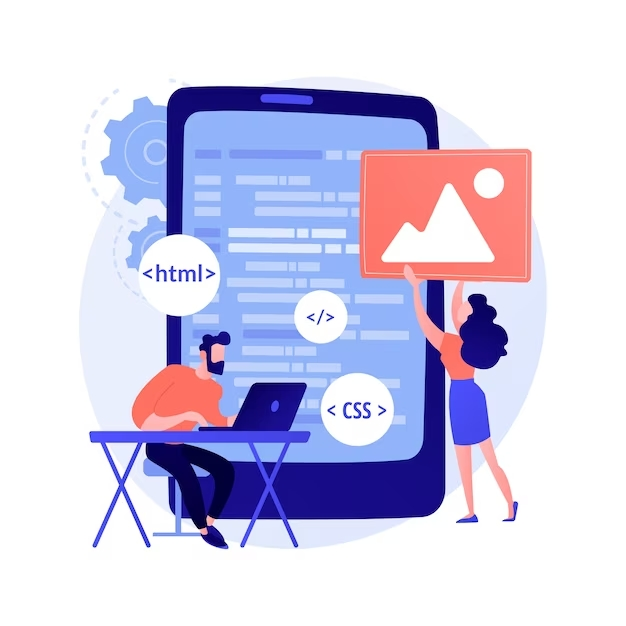
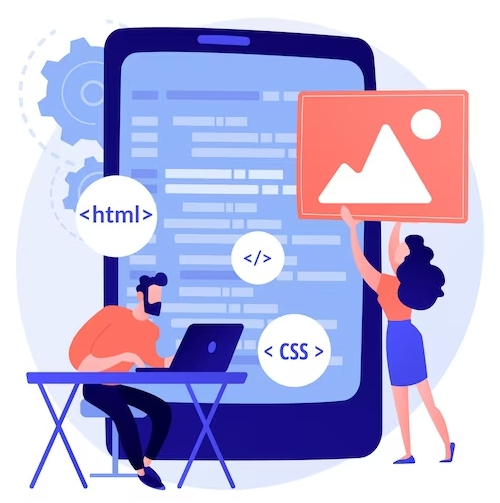
update image min width presentation page

diff --git a/style.css b/style.css
@@ -748,6 +748,7 @@ footer li.active a {
 
 .row_accueil.presentation_comp img {
     width: 20vw;
+    min-width: 200px;
 }
 
 .row_accueil.presentation_comp .grille_ressources {
@@ -758,7 +759,7 @@ footer li.active a {
 }
 
 .row_accueil.presentation_comp .grille_ressources .item_grid {
-    padding: 20px;
+    padding: 30px;
     background-color: var(--color-white);
     box-shadow: 0 0 5px var(--color-black);
     border-radius: 15px;

diff --git a/index.html b/index.html
@@ -10,7 +10,7 @@
     <link rel="canonical" href="https://unkn0wndfbx.github.io/SiteBUT/" />
     <link rel="stylesheet" href="style.css">
     <script src="https://kit.fontawesome.com/7a0b90407e.js" crossorigin="anonymous"></script>
-    <link rel="stylesheet" type="text/css" href="style_dark.css">
+    <link rel="stylesheet" href="style_dark.css">
 </head>
 
 <body>

diff --git a/style_dark.css b/style_dark.css
@@ -1,4 +1,3 @@
-body.dark-mode {
+input.chkTheme:checked ~ body  {
     background-color: #333;
-    color: #fff;
 }
